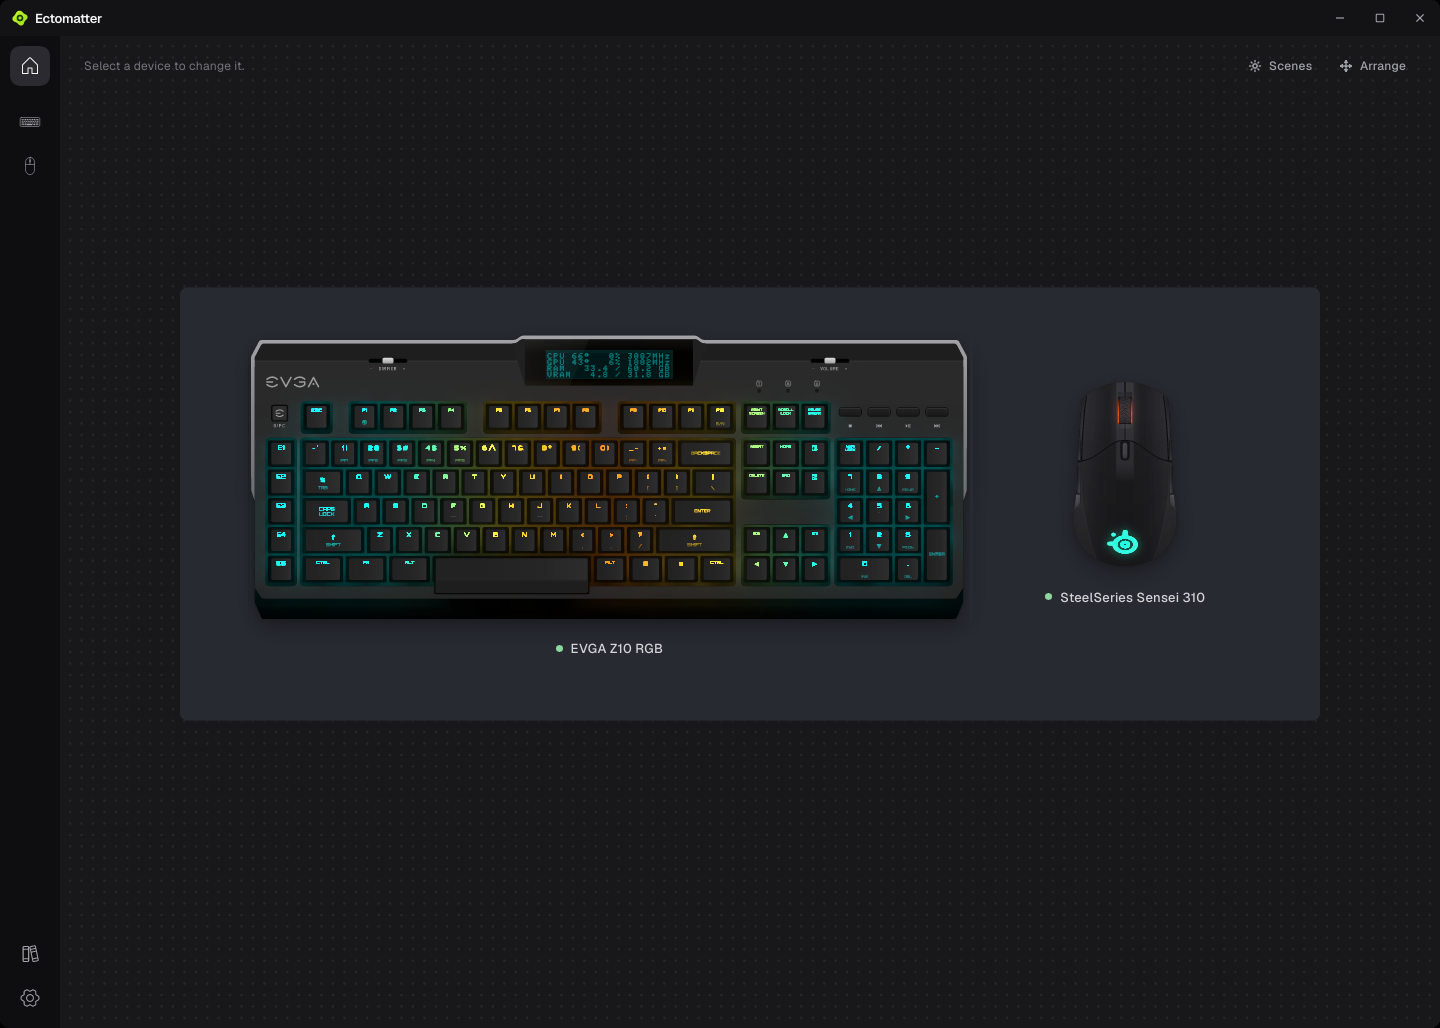
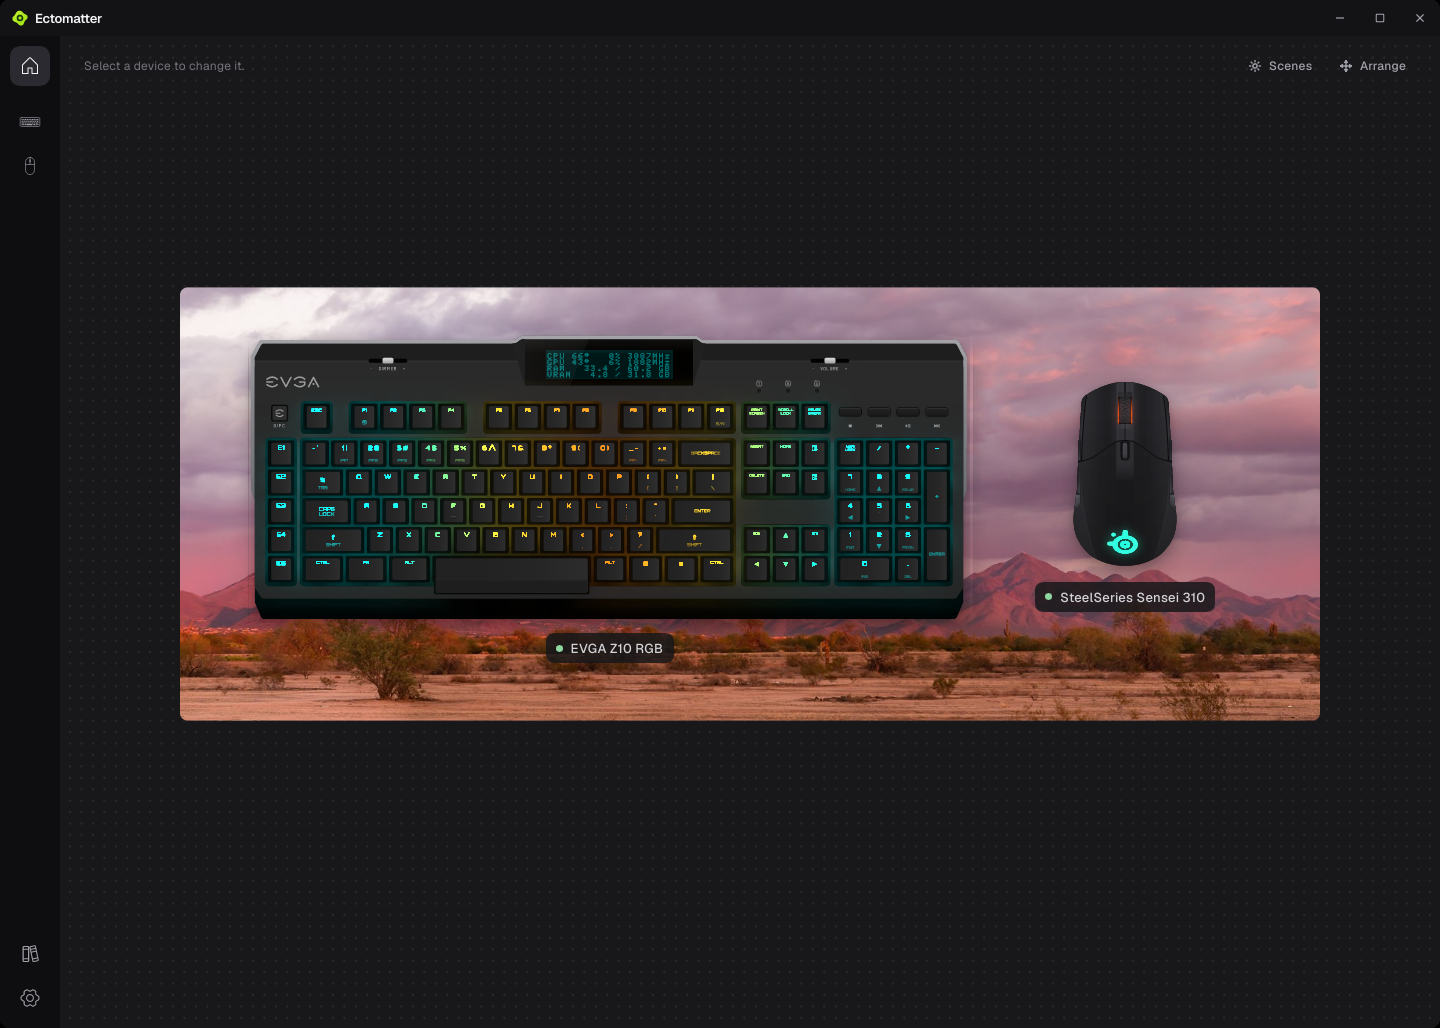
The README moves, and shows the light engine, its labs and a desk mat
Grant: "the image examples should be animated gifs to show lighting":
the hero, the Lighting page and the Keys page are animated WebPs of one
turn of the keyboard's wave (64 frames each, the_readmes_moving_pictures;
tools/readme-moving.sh, which was readme-hero.sh), WebP rather than GIF
because a GIF's 256 colors band the lights' glow. The mouse's lights
can't be held at a moment in a snapshot, so its picture stays still
(docs/deferred.md).

"You don't even mention that the interface has native HDR lighting" and
"you neglected to mention Keyboard Lab and Mouse Lab at all": a section,
Light that looks real, on the light Ectomatter works out through each
switch, cap, legend and well and draws in HDR, and on the two labs that
tune it to the device on the desk, with a picture of each.

"We should add a photo for the deskpad": the showcase mat carries a
photo, the McDowell Mountains at sunset by Harald Nagel, CC0 from
Wikimedia Commons (REUSE.toml), cropped to the mat.

Claude-Session: https://claude.ai/code/session_01G5US7FNdSZgs3iWyPkKU2v

Changed region(s): [[0.125, 0.2802, 0.9375, 0.716]]

diff --git a/apps/ectomatter/tests/renders.rs b/apps/ectomatter/tests/renders.rs
@@ -137,6 +137,8 @@ const SHOWCASE: &[Case] = &[
     Case { name: "readme-library", size: WIDE, set: &[("ECTOMATTER_PLACE", "library"), ("ECTOMATTER_CLICKS", "296,63"), ("ECTOMATTER_LIBRARY", SHOWN_LIBRARY)] },
     Case { name: "readme-game", size: WIDE, set: &[("ECTOMATTER_PLACE", "library"), ("ECTOMATTER_LIBRARY_PAGE", "steam_app_1091500"), ("ECTOMATTER_LIBRARY", SHOWN_LIBRARY), ("ECTOMATTER_WAIT", "1500")] },
     Case { name: "readme-plugins", size: WIDE, set: &[("ECTOMATTER_PLACE", "settings"), ("ECTOMATTER_SETTINGS_TAB", "plugins")] },
+    Case { name: "readme-keyboard-lab.window", size: (1280, 800), set: &[("ECTOMATTER_PLACE", "keyboard"), ("ECTOMATTER_LAB", "1")] },
+    Case { name: "readme-mouse-lab.window", size: (1280, 800), set: &[("ECTOMATTER_PLACE", "keyboard"), ("ECTOMATTER_LAB", "mouse")] },
 ];
 
 /// Where the showcase's Library is in the sandbox (`Desk::showcase` writes it;
@@ -503,8 +505,10 @@ impl Desk {
         put(&d.join("states/mouse.json"), &shown_mouse().to_string());
         desk.steam = at.join("home/.local/share/Steam");
         desk.states = Some((at.join("states/keyboard.json"), at.join("states/mouse.json")));
-        // (a desk mat under the keyboard and the mouse, as most desks have)
-        put(&d.join("pads.json"), &serde_json::json!([{ "x": -72.0, "y": -48.0, "w": 1200.0, "h": 456.0, "color": "#272A31" }]).to_string());
+        // (a desk mat under the keyboard and the mouse, as most desks have, with
+        // a photo on it: tests/renders/showcase/pad.jpg, CC0, REUSE.toml)
+        let photo = Path::new(SOURCE).join("apps/ectomatter/tests/renders/showcase/pad.jpg");
+        put(&d.join("pads.json"), &serde_json::json!([{ "x": -72.0, "y": -48.0, "w": 1200.0, "h": 456.0, "color": "#272A31", "picture": photo }]).to_string());
         desk.pads = Some(at.join("pads.json"));
         desk
     }
@@ -681,30 +685,39 @@ fn the_readmes_pictures_are_the_app_as_it_is() {
     assert!(wrong.is_empty(), "pictures that came out otherwise:\n  {}", wrong.join("\n  "));
 }
 
-/// The frames of the README's moving picture (`tools/readme-hero.sh` makes
-/// it from them): the showcase's desk at Home, the keyboard's wave at each
-/// moment of one turn (ECTOMATTER_LIGHT_AT), into target/readme-hero/.
+/// The README's moving pictures (`tools/readme-moving.sh` makes each one
+/// from its frames): the showcase desk's Home, the keyboard's Lighting page
+/// and its Keys page, each at every moment of one turn of the keyboard's wave
+/// (ECTOMATTER_LIGHT_AT), into target/readme-moving/<name>/.
+const MOVING: &[(&str, &[(&str, &str)])] = &[
+    ("readme-hero", &[("ECTOMATTER_PLACE", "home")]),
+    ("readme-lighting", &[("ECTOMATTER_PLACE", "keyboard"), ("ECTOMATTER_CLICKS", "358,63")]),
+    ("readme-keys", &[("ECTOMATTER_PLACE", "keyboard"), ("ECTOMATTER_CLICKS", "420,416")]),
+];
+
 #[test]
-#[ignore = "makes the README's moving picture's frames: tools/readme-hero.sh runs it"]
-fn the_readmes_moving_picture() {
+#[ignore = "makes the README's moving pictures' frames: tools/readme-moving.sh runs it"]
+fn the_readmes_moving_pictures() {
     built();
     let desk = Desk::showcase();
-    let frames: u32 = std::env::var("ECTOMATTER_HERO_FRAMES").ok().and_then(|v| v.parse().ok()).unwrap_or(60);
+    let frames: u32 = std::env::var("ECTOMATTER_MOVING_FRAMES").ok().and_then(|v| v.parse().ok()).unwrap_or(64);
     let turn = 4000;
-    let out = repo().join("target/readme-hero");
+    let out = repo().join("target/readme-moving");
     let _ = std::fs::remove_dir_all(&out);
-    let times: Vec<String> = (0..frames).map(|n| (n * turn / frames).to_string()).collect();
+    let jobs: Vec<(&str, &[(&str, &str)], u32)> = MOVING.iter().flat_map(|(name, set)| (0..frames).map(move |n| (*name, *set, n * turn / frames))).collect();
     std::thread::scope(|s| {
-        for group in times.chunks(4) {
+        for group in jobs.chunks(4) {
             let handles: Vec<_> = group
                 .iter()
-                .map(|ms| {
+                .map(|(name, set, ms)| {
                     let (desk, out) = (&desk, &out);
                     s.spawn(move || {
-                        let set: &'static [(&'static str, &'static str)] = Box::leak(vec![("ECTOMATTER_PLACE", "home"), ("ECTOMATTER_LIGHT_AT", Box::leak(ms.clone().into_boxed_str()) as &str)].into_boxed_slice());
-                        let case = Case { name: "hero", size: WIDE, set };
+                        let at: &'static str = Box::leak(ms.to_string().into_boxed_str());
+                        let mut all: Vec<(&'static str, &'static str)> = set.iter().map(|(k, v)| (*k, *v)).collect();
+                        all.push(("ECTOMATTER_LIGHT_AT", at));
+                        let case = Case { name: Box::leak(name.to_string().into_boxed_str()), size: WIDE, set: Box::leak(all.into_boxed_slice()) };
                         let (picture, _) = desk.draw(&case, &format!("-{ms}")).unwrap();
-                        picture.write_png(&out.join(format!("frame-{:05}.png", ms.parse::<u32>().unwrap())));
+                        picture.write_png(&out.join(name).join(format!("frame-{ms:05}.png")));
                     })
                 })
                 .collect();

diff --git a/README.md b/README.md
@@ -20,7 +20,7 @@
 <br>
 
 <p align="center">
-  <img src="docs/pictures/readme-hero.webp" width="100%" alt="Ectomatter's Home: a keyboard with a wave of orange and teal rolling across its keys, beside a mouse with its logo lit teal">
+  <img src="docs/pictures/readme-hero.webp" width="100%" alt="Ectomatter's Home: a keyboard with a wave of orange and teal rolling across its keys and a mouse with its logo lit teal, on a desk mat printed with mountains at sunset">
 </p>
 
 Keyboards, mice and the rest of a desk usually each come with their maker's
@@ -29,7 +29,7 @@ own app. Ectomatter is one app for all of them.
 A device comes in as a **core**, a small package that knows how to talk to
 it. The core describes its device (its picture, its keys, its lights and
 effects, its screen, its settings), and Ectomatter does the rest: it draws the
-device's pages, keeps its profiles and macros, plays it in scenes with
+device's pages, its lights in HDR, keeps its profiles and macros, plays it in scenes with
 everything else on the desk, and switches it for each game. **Plugins** bring
 in what isn't a device: your games, your monitors, other programs, the
 weather.
@@ -76,7 +76,24 @@ Every effect a device offers, each with its colors, brightness and speed,
 across the whole device or the zones you pick, played on the device's own
 picture as it plays on the device.
 
-<img src="docs/pictures/readme-lighting.png" width="100%" alt="A keyboard's Lighting page: the keyboard lit by a wave of orange and teal, its profiles, its effects, the wave's colors and its zones">
+<img src="docs/pictures/readme-lighting.webp" width="100%" alt="A keyboard's Lighting page: a wave of orange and teal rolling across the keyboard, its profiles, its effects, the wave's colors and its zones">
+
+### Light that looks real
+
+Ectomatter works out each device's light as it really falls: up through each
+switch and keycap, around each legend, into the wells between the keys,
+through a mouse's diffusing logo. It draws that light in HDR, so on an HDR
+screen a lit key glows brighter than the white of the page, as an LED does.
+
+The **Keyboard Lab** and the **Mouse Lab** tune that light to match the device
+on your desk: its keycaps and their plastic, its legends' typeface, size and
+place, its LEDs, its wells, its screen, its windows. Save the result as a
+setup of your own.
+
+<p>
+  <img src="docs/pictures/readme-keyboard-lab.png" width="49%" alt="The Keyboard Lab: one key's legends lit, with their typeface, weight, size and place, and a readout of the brightest legend in nits, well above the desktop's white">
+  <img src="docs/pictures/readme-mouse-lab.png" width="49%" alt="The Mouse Lab: a light's LED under its window, with its depth, output, how much passes through the window and the halo round it">
+</p>
 
 ### Keys, buttons and macros
 
@@ -85,7 +102,7 @@ macro, a profile, or nothing at all. The Macro Editor records what you type
 and keeps each macro on the device when the device can hold it, or in
 Ectomatter when it can't.
 
-<img src="docs/pictures/readme-keys.png" width="100%" alt="A keyboard's Keys page with one key chosen, the jobs it can have and the keys to give it">
+<img src="docs/pictures/readme-keys.webp" width="100%" alt="A keyboard's Keys page with one key chosen, the jobs it can have and the keys to give it, the wave rolling across the keys">
 
 <img src="docs/pictures/readme-macros.png" width="100%" alt="The Macro Editor: a keyboard's macros listed by name, one open with its steps">
 

diff --git a/docs/deferred.md b/docs/deferred.md
@@ -550,11 +550,15 @@ Paths are under `apps/ectomatter/src/` unless they say otherwise.
   the render tests need it fetched once, so they need the network the
   first time, and Steam changing a game's art fails the fetch's checksum
   until `--pin` takes the new one and the pictures are drawn again.
-- The README's moving picture (`docs/pictures/readme-hero.webp`) isn't held
-  to the app: `tools/readme-hero.sh` makes it again, by hand. Its still,
-  `docs/pictures/readme-home.png`, is held
-  (`the_readmes_pictures_are_the_app_as_it_is`), so a change to Home fails
-  there first.
+- The README's moving pictures (`docs/pictures/readme-hero.webp`,
+  `readme-lighting.webp`, `readme-keys.webp`) aren't held to the app:
+  `tools/readme-moving.sh` makes them again, by hand. Their stills
+  (`readme-home.png`, `readme-lighting.png`, `readme-keys.png`) are held
+  (`the_readmes_pictures_are_the_app_as_it_is`), so a change to those pages
+  fails there first.
+- The mouse's lights don't move in the README: a snapshot can't hold the
+  mouse's effects at a moment, as `ECTOMATTER_LIGHT_AT` holds the keyboard's
+  (`front/mod.rs`, `light_at`).
 - A game with no Proton build of its own shows an empty Version menu
   (`plugins/game-configurator/module/src/lib.rs:233`, `menu(options, ...)`:
   the empty value has no option to label it), not the build it will start

diff --git a/CLAUDE.md b/CLAUDE.md
@@ -56,8 +56,8 @@ This is where they live in this repository.
   fetches into `target/readme-art/` and checks against its pinned
   checksums; the art is the publishers', shown under fair use, never
   committed), held the same way (`the_readmes_pictures_are_the_app_as_it_is`);
-  its moving picture is made again with `tools/readme-hero.sh` when Home
-  changes.
+  its moving pictures (Home, Lighting, Keys) are made again with
+  `tools/readme-moving.sh` when those pages change.
   `ECTOMATTER_RENDERS=name,name` runs only those; `ECTOMATTER_RENDERS_LOG=1`
   keeps every page's log.
   `a_main_menu_item_opens_its_place_at_its_first_page` leaves each place
